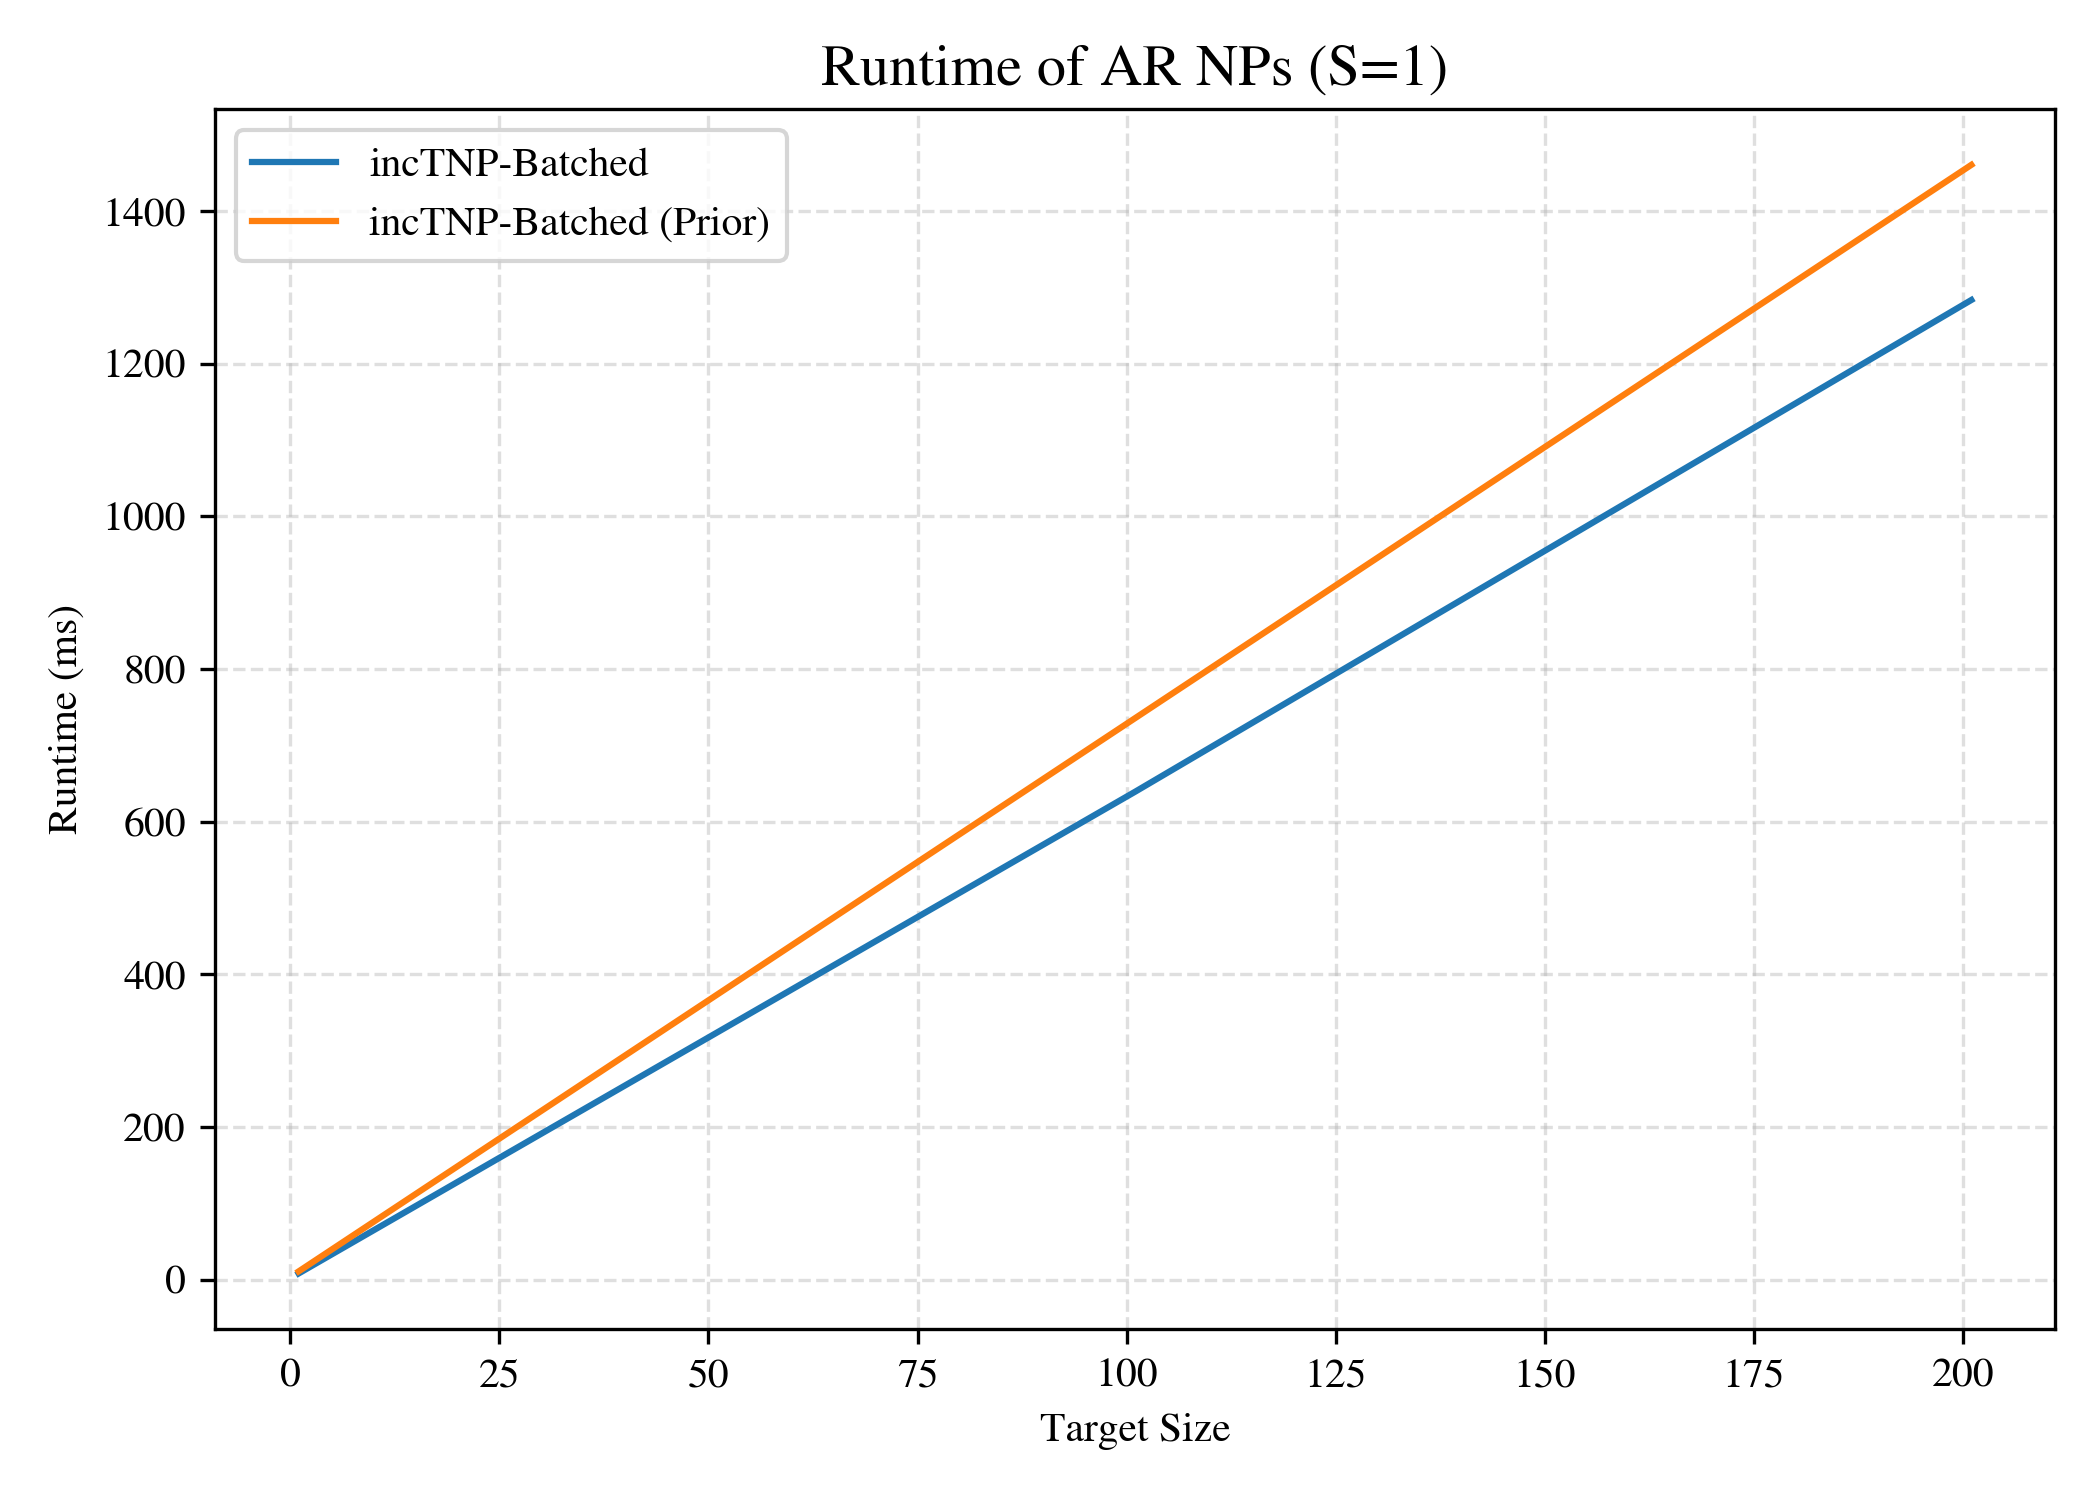
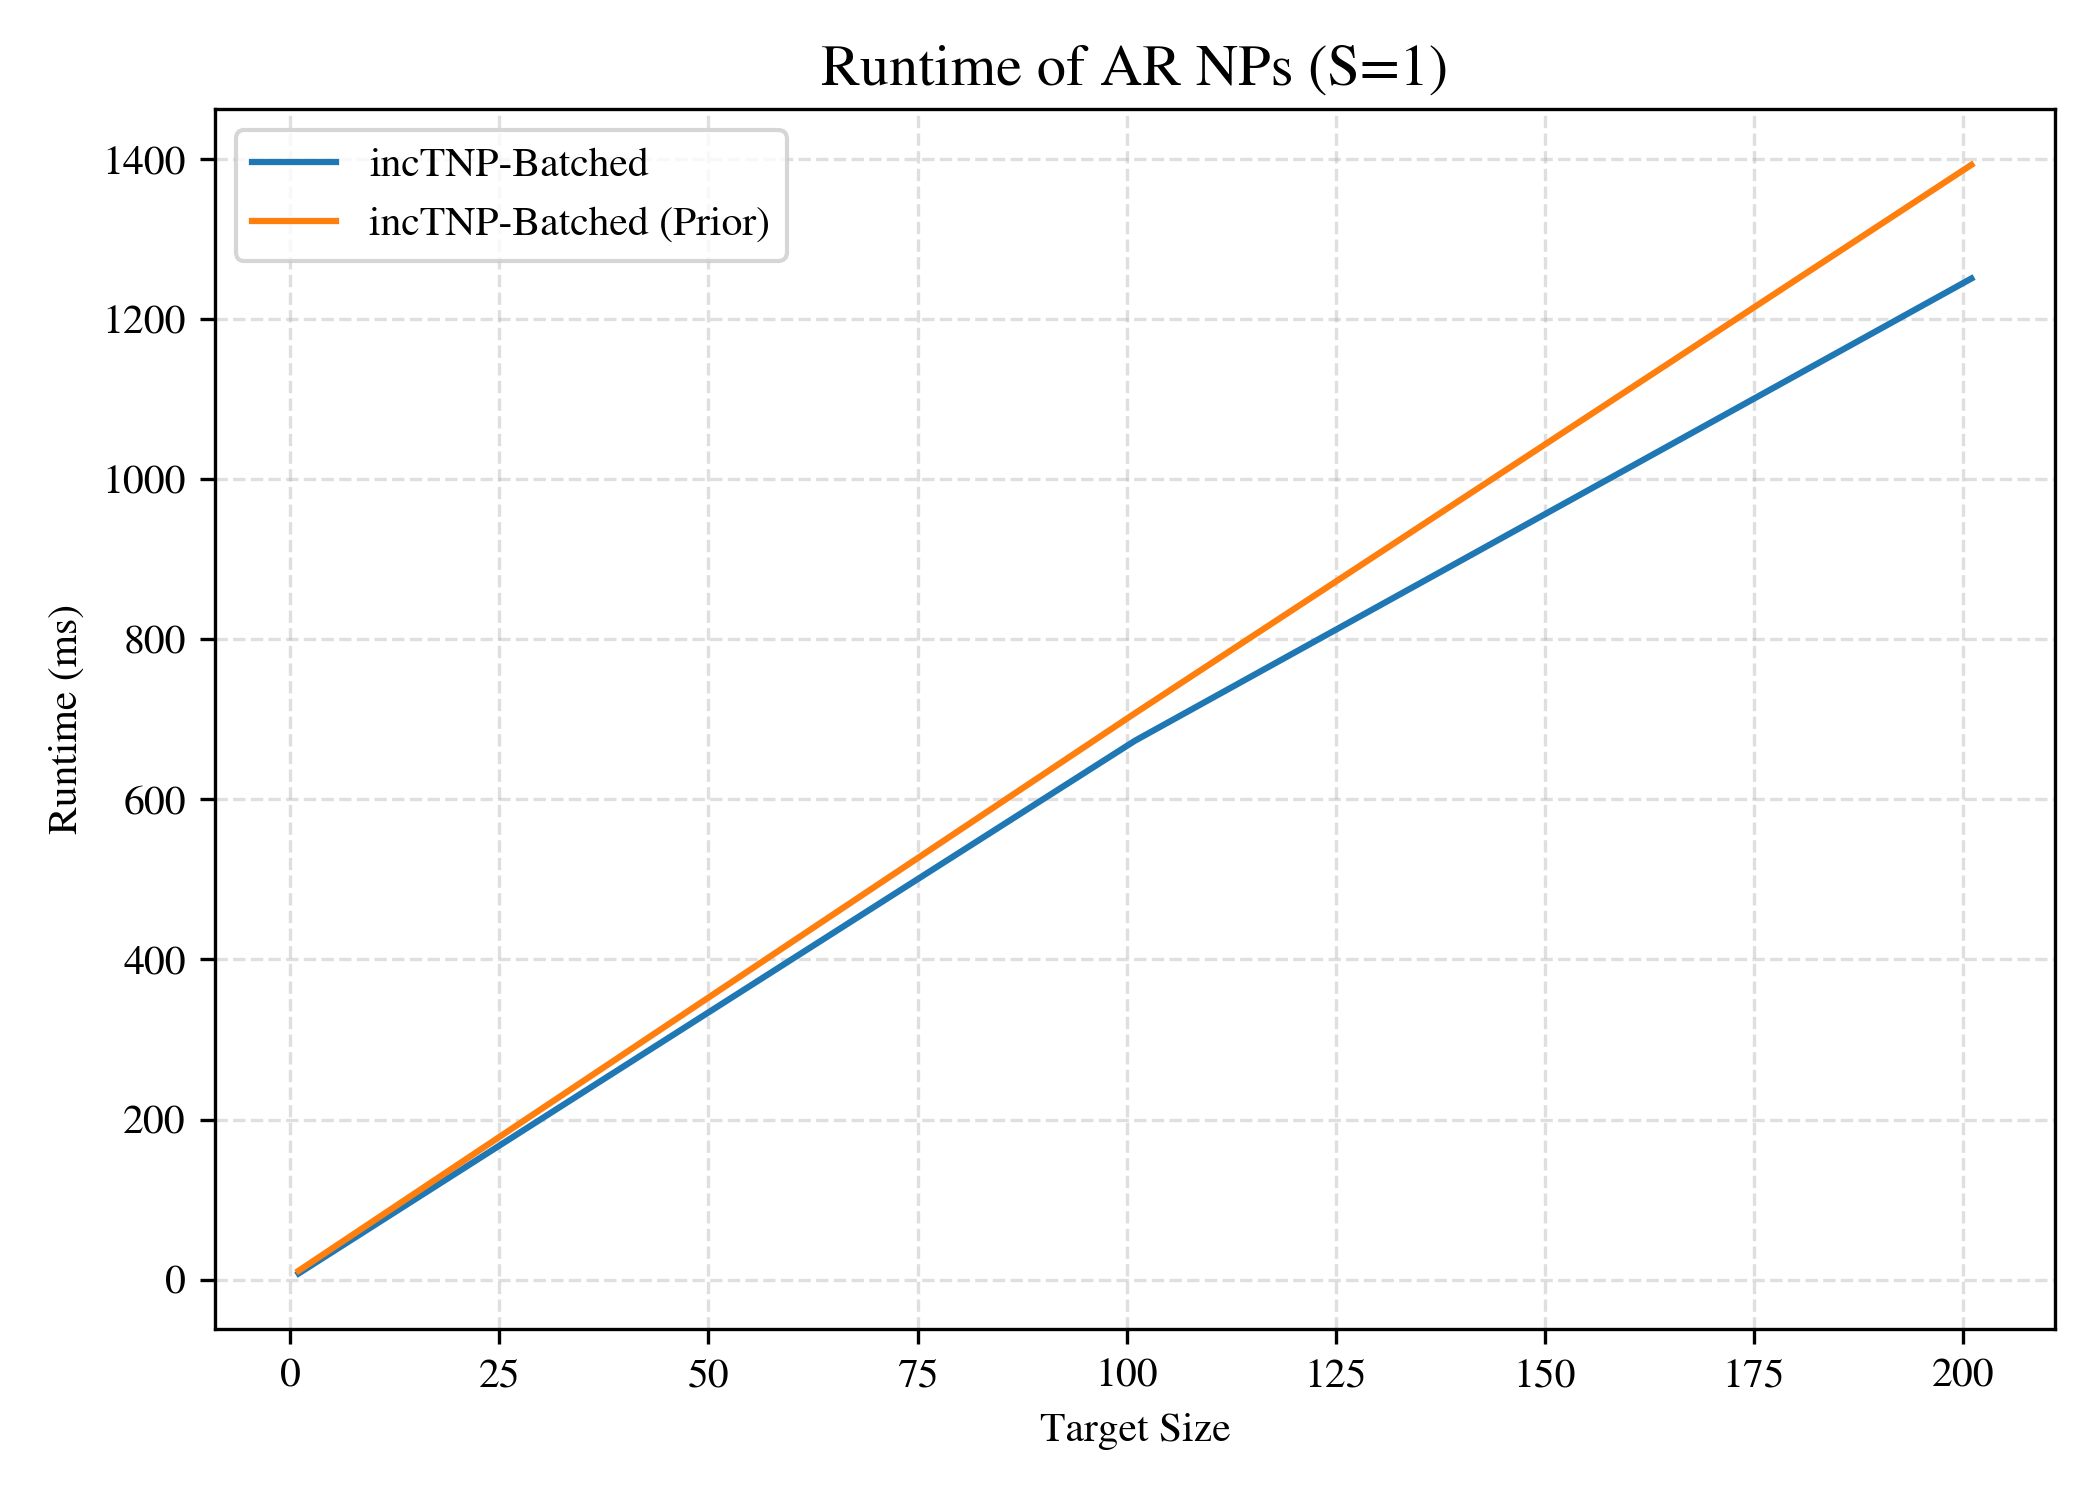
Sync

diff --git a/tnp/networks/attention.py b/tnp/networks/attention.py
@@ -6,6 +6,7 @@ import torch
 from check_shapes import check_shapes
 from torch import nn
 from .kv_cache import update_kv_cache
+from .kv_cache_fixed import update_kv_cache_fixed, get_mask_fixed
 
 
 class BaseMultiHeadAttention(nn.Module, ABC):
@@ -54,7 +55,8 @@ class BaseMultiHeadAttention(nn.Module, ABC):
         mask: Optional[torch.Tensor] = None,
         kv_cache: Optional[dict] = None, # Stores cached KV values if being used
         kv_tag: Optional[str] = None, # Layer ID to look up in kv_cache,
-        use_causal: bool = False, # Whether to set causal flag in SDPA
+        use_causal: bool = False, # Whether to set causal flag in SDPA,
+        use_fixed_kv: bool = False, # Whether to use more optimised fixed kv cache or not - less safe but potentially faster
     ) -> torch.Tensor:
         q = self.to_q(xq)
         k_new = self.to_k(xk)
@@ -68,14 +70,22 @@ class BaseMultiHeadAttention(nn.Module, ABC):
         if kv_tag is None: # KV caching not used if no tag provided
             k, v = k_new, v_new
         else:
-            k, v = update_kv_cache(k_new, v_new, kv_cache, kv_tag)
-            # Loads cached mask in case of KV caching - https://github.com/pytorch/pytorch/issues/144858
-            if kv_cache is not None and  kv_tag is not None:
-                m, _, k_len, _ = k.shape
-                _, _, q_len, _ = q.shape
-                mask = torch.tril(torch.ones(k_len, k_len, dtype=torch.bool, device=k.device))[-q_len:]
-                #mask = mask.unsqueeze(0).expand(m, -1, -1).contiguous()
-                use_causal = False
+            if use_fixed_kv:
+                k, v = update_kv_cache_fixed(k_new, v_new, kv_cache, kv_tag)
+                if kv_cache is not None and kv_tag is not None:
+                    m, _, k_len, _ = k.shape
+                    _, _, q_len, _ = q.shape
+                    mask = get_mask_fixed(kv_cache, q_len, k_len)
+                    use_causal = False
+            else:
+                k, v = update_kv_cache(k_new, v_new, kv_cache, kv_tag)
+                # Loads cached mask in case of KV caching - https://github.com/pytorch/pytorch/issues/144858
+                if kv_cache is not None and  kv_tag is not None:
+                    m, _, k_len, _ = k.shape
+                    _, _, q_len, _ = q.shape
+                    mask = torch.tril(torch.ones(k_len, k_len, dtype=torch.bool, device=k.device))[-q_len:]
+                    #mask = mask.unsqueeze(0).expand(m, -1, -1).contiguous()
+                    use_causal = False
             
 
         #if mask is not None:
@@ -131,8 +141,9 @@ class MultiHeadSelfAttention(BaseMultiHeadAttention):
         kv_cache: Optional[dict] = None,
         kv_tag: Optional[str] = None,
         use_causal: bool = False, # Whether to set causal flag in SDPA
+        use_fixed_kv: bool = False, # Whether to use more optimised fixed kv cache or not - less safe but potentially faster
     ) -> torch.Tensor:
-        return super().propagate(x, x, x, mask, kv_cache=kv_cache, kv_tag=kv_tag, use_causal=use_causal)
+        return super().propagate(x, x, x, mask, kv_cache=kv_cache, kv_tag=kv_tag, use_causal=use_causal, use_fixed_kv=use_fixed_kv)
 
 
 class MultiHeadCrossAttention(BaseMultiHeadAttention):

diff --git a/tnp/networks/kv_cache_fixed.py b/tnp/networks/kv_cache_fixed.py
@@ -1,0 +1,60 @@
+# KV cache helper but using fixed sized cache to optimise for cases when this is known.
+# Also stores masks and context reps. This is lower level but faster (esp for small cases) - use with care!
+from typing import Optional
+import torch
+
+_CTX_REP_ID = "CTXTensor"
+_SA_REP_ID = "SaLayer"
+_MASK_ID = "CachedCausalMask"
+
+# Updates key and value pairs
+def update_kv_cache_fixed(k_new, v_new, cache: Optional[dict], cache_id):
+    if cache is None: return k_new, v_new # Training - in case of an empty cache, k and v are simply returned
+
+    m, h, new_pts, k_dim = k_new.shape 
+    _, _, _, v_dim = v_new.shape
+    k, v, write_idx = cache[cache_id]
+    total = write_idx + new_pts
+    k[:,:,write_idx:total,:] = k_new
+    v[:,:, write_idx:total,:] = v_new
+    cache[cache_id] = (k, v, total)
+
+    return k[:, :,:total,:], v[:,:,:total,:]
+
+def get_ctx_id(layer: int) -> str:
+    return _CTX_REP_ID + str(layer)
+
+def get_layer_id(layer: int) -> str:
+    return _SA_REP_ID + str(layer)
+
+def get_layer_ctx(layer: int, cache):
+    return cache[get_ctx_id(layer)][0]
+
+# Updates context rep stored
+def update_ctx_cache_fixed(zc_new, cache, l):
+    new_pts = zc_new.shape[1]
+    l_id = get_ctx_id(l)
+    zc, write_idx = cache[l_id]
+    zc[:, write_idx: write_idx+new_pts, :] = zc_new
+    write_idx += new_pts
+    cache[l_id] = (zc, write_idx)
+
+def get_mask_fixed(cache, q_len, k_len):
+
+    return (cache[_MASK_ID])[-q_len:, :k_len]
+
+
+# Initialises a KV cache
+def init_kv_cache_fixed(layers: int, batch_size: int, max_nc: int, dz: int, heads: int, k_dim: int, v_dim: int,
+     device: str) -> dict:
+    kv_cache = {} # Empty cache
+    # Initialises context representation of size [m, nc, dz] for each layer
+    for l in range(layers):
+        kv_cache[get_ctx_id(l)] = (torch.empty((batch_size, max_nc, dz), device=device), 0)
+    # Intialises a causal mask to use that can be sliced at run time
+    kv_cache[_MASK_ID] = torch.tril(torch.ones(max_nc, max_nc, dtype=torch.bool, device=device))
+    # Initialises K and V tensors to be cached
+    for l in range(layers):
+        kv_cache[get_layer_id(l)] = (torch.empty((batch_size, heads, max_nc, k_dim), device=device),
+            torch.empty((batch_size, heads, max_nc, v_dim), device=device), 0)
+    return kv_cache

diff --git a/tnp/models/incTNPBatchedPrior.py b/tnp/models/incTNPBatchedPrior.py
@@ -11,6 +11,7 @@ from .base import BatchedCausalTNPPrior
 from .tnp import TNPDecoder
 from ..utils.helpers import preprocess_observations
 from ..networks.kv_cache import init_kv_cache
+from ..networks.kv_cache_fixed import init_kv_cache_fixed
 from .incUpdateBase import IncUpdateEff
 import torch.distributions as td
 
@@ -162,22 +163,29 @@ class IncTNPBatchedPrior(BatchedCausalTNPPrior, IncUpdateEff):
     ):
         super().__init__(encoder, decoder, likelihood)
 
+
     # Logic for effecient incremental context updates
-    def init_inc_structs(self, m: int):
-        self.kv_cache_inc = init_kv_cache()
+    def init_inc_structs(self, m: int, max_nc: int, device: str):
         # Adds empty token
         start_token = self.encoder.empty_token.expand(m, -1, -1)
-        self.encoder.update_context(start_token, self.kv_cache_inc)
+        dz = start_token.shape[2]
+        layers = len(self.encoder.transformer_encoder.mhsa_layers)
+        heads = self.encoder.transformer_encoder.mhsa_layers[0].attn.num_heads
+        head_dim = int(round(self.encoder.transformer_encoder.mhsa_layers[0].attn.scale ** -2))
+        #kv_dim = self.encoder.transformer_encoder.mhsa_layers[0].qk_dim
+        self.kv_cache_inc = init_kv_cache_fixed(layers=layers, batch_size=m, max_nc=max_nc+1, dz=dz, 
+            heads=heads, k_dim=head_dim, v_dim=head_dim, device=device)
+        self.encoder.transformer_encoder.encode_context_fixedkv(start_token, self.kv_cache_inc)
 
 
     # Adds new context points
     def update_ctx(self, xc: torch.Tensor, yc: torch.Tensor):
         zc = self.encoder._preprocess_context(xc, yc)
-        self.encoder.update_context(zc, self.kv_cache_inc)
+        self.encoder.transformer_encoder.encode_context_fixedkv(zc, self.kv_cache_inc)
 
     def query(self, xt: torch.Tensor, dy: int) -> td.Normal:
         zt = self.encoder._preprocess_targets(xt, dy)
-        return self.likelihood(self.decoder(self.encoder.query(zt, self.kv_cache_inc), xt))
+        return self.likelihood(self.decoder(self.encoder.transformer_encoder.query_fixedkv(zt, self.kv_cache_inc), xt))
 
 
     # Greedy Context ordering algorithm using KV caching. Note it is incremental (so given an initial context set + a number of new ctx points it can pick the best order)

diff --git a/tnp/networks/attention_layers.py b/tnp/networks/attention_layers.py
@@ -109,20 +109,22 @@ class MultiHeadSelfAttentionLayer(BaseMultiHeadAttentionLayer):
         kv_cache: Optional[dict] = None,
         kv_tag: Optional[str] = None,
         use_causal: bool = False, # Whether to set causal flag in SDPA
+        use_fixed_kv: bool = False, # Whether to use more optimised fixed kv cache or not - less safe but potentially faster
     ) -> torch.Tensor:
-        x = self.attn(x, mask=mask, kv_cache=kv_cache, kv_tag=kv_tag, use_causal=use_causal)
+        x = self.attn(x, mask=mask, kv_cache=kv_cache, kv_tag=kv_tag, use_causal=use_causal, use_fixed_kv=use_fixed_kv)
         return self.attn_dropout(x)
 
     @check_shapes("x: [m, n, d]", "mask: [n, n]", "return: [m, n, d]")
     def forward(
         self, x: torch.Tensor, mask: Optional[torch.Tensor] = None, kv_cache: Optional[dict] = None, kv_tag: Optional[str] = None,
         use_causal: bool = False, # Whether to set causal flag in SDPA
+        use_fixed_kv: bool = False, # Whether to use more optimised fixed kv cache or not - less safe but potentially faster
     ) -> torch.Tensor:
         if self.norm_first:
-            x = x + self.attn_block(self.norm1(x), mask, kv_cache=kv_cache, kv_tag=kv_tag, use_causal=use_causal)
+            x = x + self.attn_block(self.norm1(x), mask, kv_cache=kv_cache, kv_tag=kv_tag, use_causal=use_causal, use_fixed_kv=use_fixed_kv)
             x = x + self.ff_block(self.norm2(x))
         else:
-            x = self.norm1(x + self.attn_block(x, mask, kv_cache=kv_cache, kv_tag=kv_tag, use_causal=use_causal))
+            x = self.norm1(x + self.attn_block(x, mask, kv_cache=kv_cache, kv_tag=kv_tag, use_causal=use_causal, use_fixed_kv=use_fixed_kv))
             x = self.norm2(x + self.ff_block(x))
 
         return x

diff --git a/tnp/networks/transformer.py b/tnp/networks/transformer.py
@@ -8,6 +8,7 @@ import torch
 from check_shapes import check_shapes
 from torch import nn
 from .kv_cache import update_ctx_cache
+from .kv_cache_fixed import get_layer_ctx, update_ctx_cache_fixed, get_layer_id
 
 from .attention_layers import (
     MultiHeadCrossAttentionLayer,
@@ -103,6 +104,28 @@ class TNPTransformerFullyMaskedEncoder(nn.Module):
             xt = mhca_layer(xt, xc, mask=mask_ca)
 
         return xt
+
+    # Fixed KV (more opt) - Computes the MHSA representation with causal plus kv
+    @check_shapes(
+        "zc_new: [m, nc_new, dz]"
+    )
+    def encode_context_fixedkv(self, zc_new: torch.Tensor, kv_cache: dict) -> torch.Tensor:
+        L = len(self.mhsa_layers)
+        m, nc_new, dz = zc_new.shape
+        ctx_vals = torch.empty((L, m, nc_new, dz), device=zc_new.device)
+        for i, mhsa_layer in enumerate(self.mhsa_layers):
+            self_attention_layer_tag = get_layer_id(i)
+            zc_new = mhsa_layer(zc_new, kv_cache=kv_cache, kv_tag=self_attention_layer_tag, use_fixed_kv=True)
+            update_ctx_cache_fixed(zc_new, kv_cache, i) # Writes updated context
+
+    # Fixed KV - Query - runs MHCA pathway assuming MHSA attention has already been computed
+    @check_shapes(
+        "zt: [m, nt, dz]", "return: [m, nt, dz]"
+    )
+    def query_fixedkv(self, zt, kv_cache: dict) -> torch.Tensor:
+        for i, mhca_layer in enumerate(self.mhca_layers):
+            zt = mhca_layer(zt, get_layer_ctx(i, kv_cache))
+        return zt
 
     # Computes the MHSA representation with causal plus kv
     @check_shapes(

diff --git a/experiments/arnp.py b/experiments/arnp.py
@@ -123,7 +123,7 @@ def ar_predict(model, xc: torch.Tensor, yc: torch.Tensor, xt: torch.Tensor,
 
     is_inc_update = isinstance(model, IncUpdateEff)
     if is_inc_update:
-        model.init_inc_structs(m=xc_stacked.shape[0])
+        model.init_inc_structs(m=xc_stacked.shape[0], max_nc=nc+nt, device=device)
         model.update_ctx(xc=xc_stacked, yc=yc_stacked)
 
     for i in range(nt):
@@ -171,10 +171,10 @@ def ar_predict(model, xc: torch.Tensor, yc: torch.Tensor, xt: torch.Tensor,
 # Measures timings of different models
 def measure_perf_timings():
     # Measure hypers
-    burn_in = 1 # Number of burn in runs to ignore
+    burn_in = 0 # Number of burn in runs to ignore
     aggregate_over = 1 # Number of runs to aggregate data over
-    token_step = 100 # How many increments of tokens to go up in
-    min_nt, max_nt = 1, 250
+    token_step = 2500 # How many increments of tokens to go up in
+    min_nt, max_nt = 1, 5002
     dx, dy, m = 1, 1, 1
     nc_start = 1
     num_samples=50 # Samples to unroll in ar_predict

diff --git a/tnp/models/incUpdateBase.py b/tnp/models/incUpdateBase.py
@@ -8,7 +8,7 @@ import torch.distributions as td
 # for certain cases. Big O still the same and generic version tested. This is used for stuff like AR mode to make gains on small ctx
 class IncUpdateEff(ABC):
     @abstractmethod
-    def init_inc_structs(self, m: int):
+    def init_inc_structs(self, m: int, max_nc: int, device: str):
         raise NotImplementedError
     
     @abstractmethod
